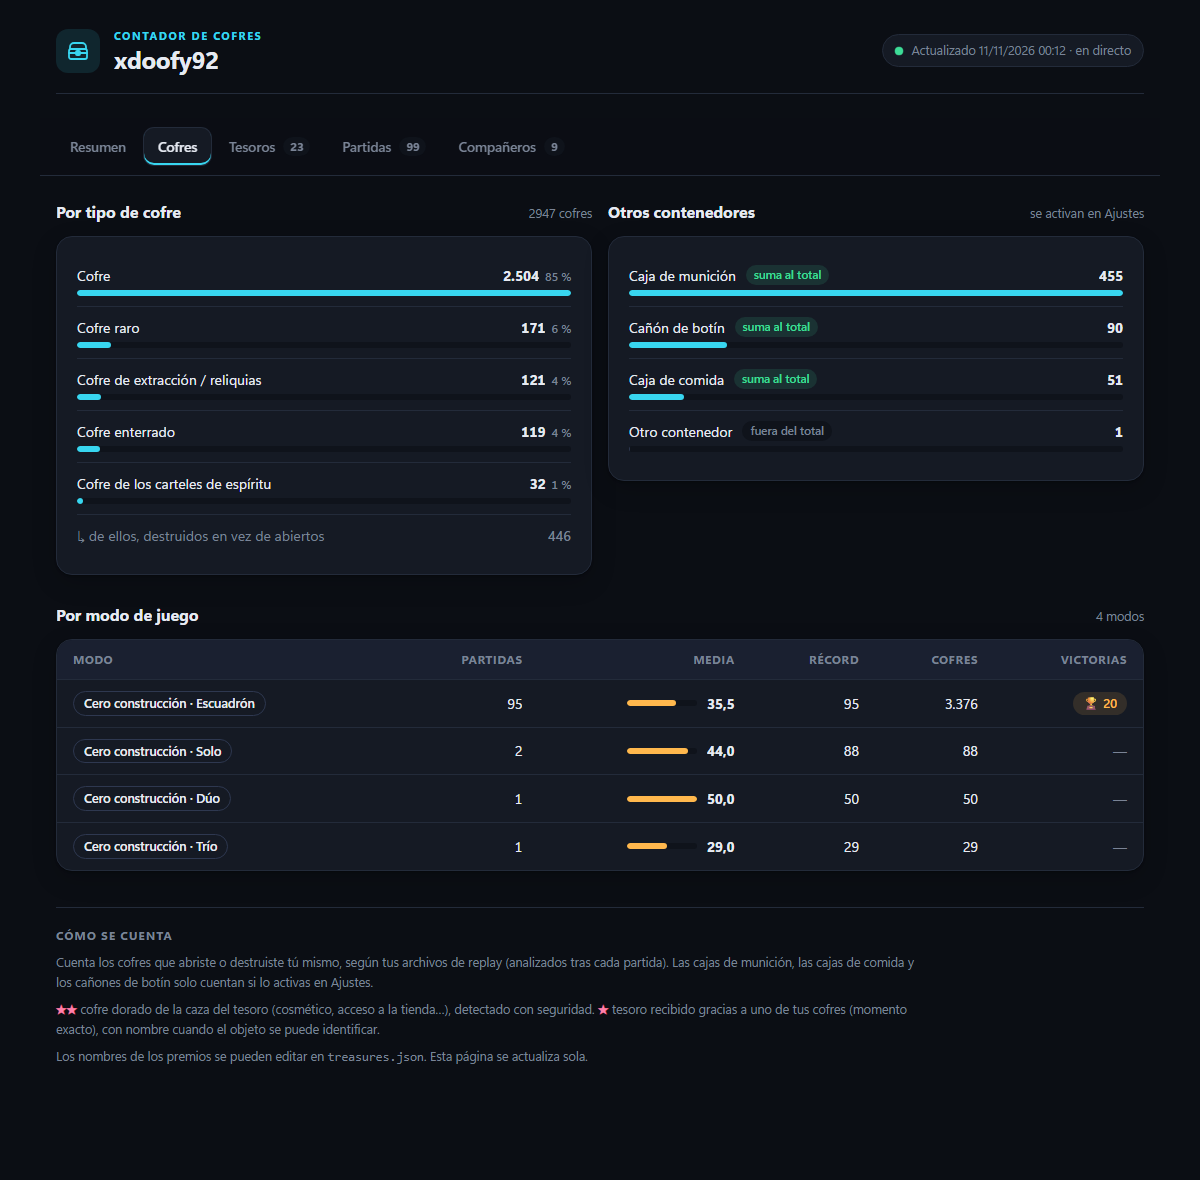
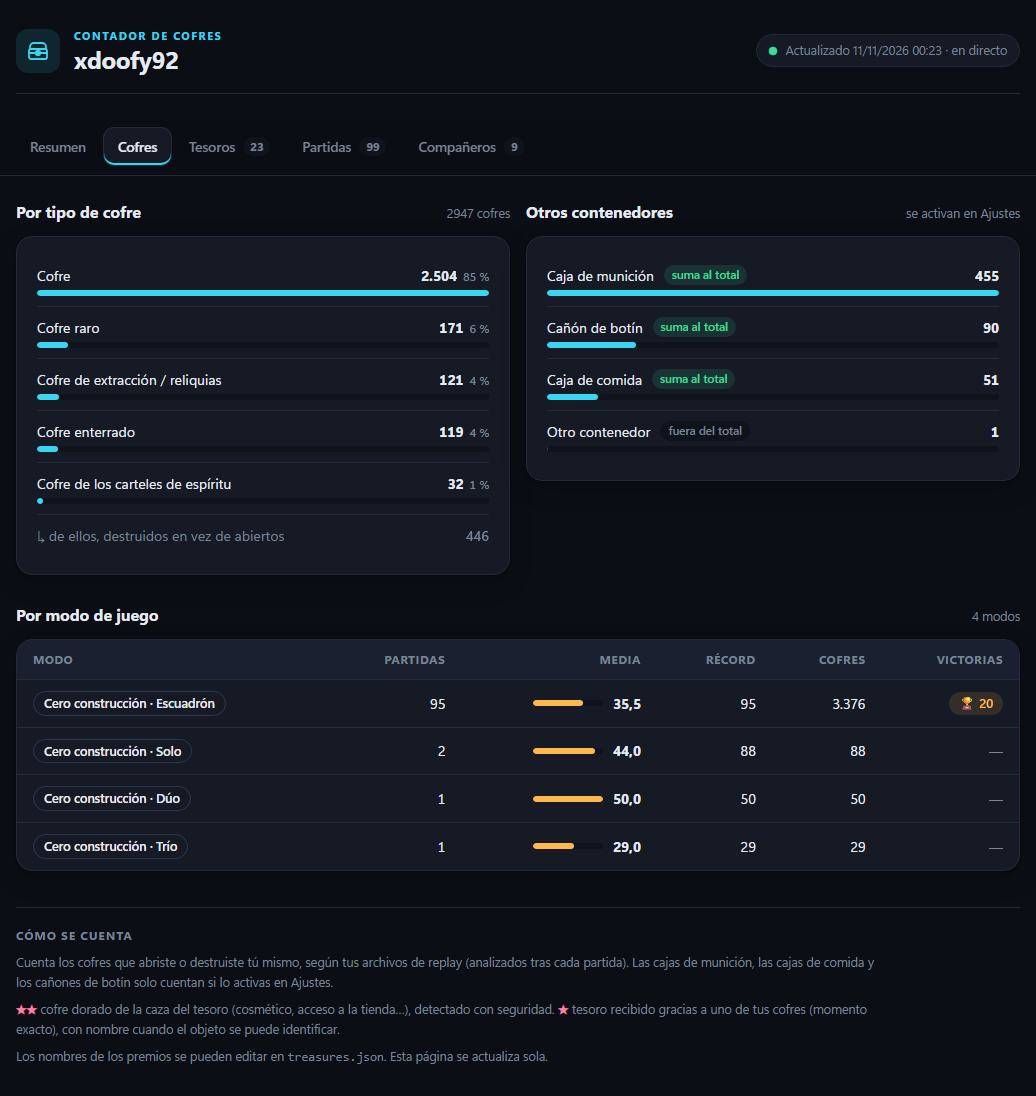
Capturas nuevas del README; iconos redondos en los diálogos
- README: capturas de la versión actual. La ventana y el informe de la
  cabecera tienen el mismo tamaño (1036×728), la ventana muestra el
  equipo, y los dos overlays (entre partidas y en directo) también miden
  igual, sin esquinas blancas. Ajustes, bienvenida y pestañas del informe
  rehechos (nombres ficticios).
- Diálogos: los iconos («i», «!», «↺») vuelven a ser redondos; en Ajustes
  la etiqueta del overlay para OBS es una píldora.
- --overlay-preview: las vistas salen del mismo ancho (como el overlay
  real, que no encoge) y CHESTCOUNTER_OVERLAY_SCALE permite capturarlas a
  más escala.

diff --git a/src/ChestCounter/SettingsForm.cs b/src/ChestCounter/SettingsForm.cs
@@ -199,7 +199,8 @@ public sealed class SettingsForm : Form
         var obsUrl = ObsServer.Url;
         var stateCard = new Card { Location = new Point(RightW - 13 - 70, 6), Size = new Size(70, 18), Radius = 9, BackColor = Theme.Panel };
         Lbl(stateCard, obsUrl != null ? L.T("● ACTIVO", "● ON") : L.T("● NO", "● OFF"), 7.0f, FontStyle.Bold,
-            obsUrl != null ? Theme.Mint : Theme.Red, new Point(0, 0), new Size(70, 18), ContentAlignment.MiddleCenter);
+            obsUrl != null ? Theme.Mint : Theme.Red, new Point(0, 0), new Size(70, 18), ContentAlignment.MiddleCenter)
+            .BackColor = Color.Transparent; // la píldora redondeada se ve por detrás
         obsCard.Controls.Add(stateCard);
         var obs = AddField(obsCard, new Point(13, 41), RightW - 26 - 72, obsUrl ?? L.T("Puerto ocupado", "Port in use"));
         var copy = new PillButton { Text = L.T("Copiar", "Copy"), Location = new Point(RightW - 13 - 66, 41), Size = new Size(66, 30), Radius = 10, Font = Theme.Text(8.5f, FontStyle.Bold), Enabled = obsUrl != null };

diff --git a/src/ChestCounter/Program.cs b/src/ChestCounter/Program.cs
@@ -153,7 +153,8 @@ internal static class Program
             }
             NativeOverlay.Start(-20000, -20000, false, (_, _) => { }, _ => { });
             var fakeLive = new MatchRecord { ChestsOpened = 12, TreasureFinds = { new TreasureFind { Item = "Treasure" } } };
-            foreach (var (suffix, live, inProgress) in new[] { ("-espera", (MatchRecord?)null, false), ("-en-curso", null, true), ("-en-vivo", fakeLive, true) })
+            // "En vivo" primero: el overlay no encoge (ancho estable), así las tres vistas salen del mismo tamaño, como en el juego.
+            foreach (var (suffix, live, inProgress) in new[] { ("-en-vivo", fakeLive, true), ("-en-curso", (MatchRecord?)null, true), ("-espera", null, false) })
             {
                 NativeOverlay.Update(OverlayModel.Build(previewData, live, inProgress, Profiles.InitialChests(config, previewData.Matches.Select(Profiles.Key).FirstOrDefault())));
                 Thread.Sleep(600);

diff --git a/src/ChestCounter/InfoDialog.cs b/src/ChestCounter/InfoDialog.cs
@@ -38,7 +38,7 @@ public sealed class InfoDialog : Form
             Text = "i",
             Font = new Font("Georgia", 15f, FontStyle.Bold | FontStyle.Italic),
             ForeColor = Theme.Cyan,
-            BackColor = Theme.Panel,
+            BackColor = Color.Transparent, // deja ver el círculo de la tarjeta
             Location = new Point(0, 0),
             Size = new Size(40, 40),
             TextAlign = ContentAlignment.MiddleCenter,
@@ -62,7 +62,7 @@ public sealed class InfoDialog : Form
                 Text = p.Glyph,
                 Font = Theme.Text(10f, FontStyle.Bold),
                 ForeColor = p.Color,
-                BackColor = Theme.Panel,
+                BackColor = Color.Transparent,
                 Location = new Point(0, 0),
                 Size = new Size(26, 26),
                 TextAlign = ContentAlignment.MiddleCenter,

diff --git a/src/ChestCounter/NativeOverlay.cs b/src/ChestCounter/NativeOverlay.cs
@@ -175,6 +175,12 @@ public static class NativeOverlay
         var screenDc = GetDC(IntPtr.Zero);
         _scale = GetDeviceCaps(screenDc, LOGPIXELSY) / 96f;
         ReleaseDC(IntPtr.Zero, screenDc);
+        // Desarrollo (capturas del README con --overlay-preview): CHESTCOUNTER_OVERLAY_SCALE fuerza la escala.
+        if (float.TryParse(Environment.GetEnvironmentVariable("CHESTCOUNTER_OVERLAY_SCALE"), System.Globalization.NumberStyles.Float,
+                System.Globalization.CultureInfo.InvariantCulture, out var forced) && forced is > 0.5f and < 5f)
+        {
+            _scale = forced;
+        }
 
         int S(int v) => (int)Math.Round(v * _scale);
 

diff --git a/README.md b/README.md
@@ -34,7 +34,7 @@ ChestCounter lee las repeticiones (replays) que Fortnite guarda de cada partida 
    > Windows puede mostrar *"Windows protegió tu PC"* porque el exe no está firmado. Haz clic en *Más información → Ejecutar de todas formas*.
 4. La bienvenida te recuerda lo de las repeticiones y, si ya tienes replays en el PC, te deja **contarlos** o empezar **solo con las próximas partidas**.
 
-<p align="center"><img src="docs/setup.png" alt="Bienvenida del primer inicio" width="440"></p>
+<p align="center"><img src="docs/setup.png" alt="Bienvenida del primer inicio" width="520"></p>
 
 5. Deja la ventana abierta (puedes minimizarla) mientras juegas. Durante la partida el contador lee el replay que se está grabando y suma los cofres **en directo**; al terminar, se confirman.
 
@@ -43,7 +43,7 @@ ChestCounter lee las repeticiones (replays) que Fortnite guarda de cada partida 
 
 ## La ventana principal
 
-<p align="center"><img src="docs/main.png" alt="Ventana principal" width="592"></p>
+<p align="center"><img src="docs/main.png" alt="Ventana principal" width="680"></p>
 
 - **Arriba a la izquierda**: tu total de cofres, la última partida (o la actual, en verde, mientras juegas) y la sesión.
 - **A la derecha**: hoy, el mejor día, la media, la mejor partida, el histórico (partidas guardadas y desde cuándo) y los tesoros.
@@ -92,7 +92,7 @@ Con **Sumar sus cofres a tu total** (también desactivado), tu total, media, ré
 
 ## El overlay
 
-<p align="center"><img src="docs/overlay-espera.png" alt="Overlay entre dos partidas" width="300">&nbsp;&nbsp;<img src="docs/overlay-en-curso.png" alt="Overlay durante una partida" width="300"></p>
+<p align="center"><img src="docs/overlay-espera.png" alt="Overlay entre dos partidas" width="300">&nbsp;&nbsp;<img src="docs/overlay-en-vivo.png" alt="Overlay en directo durante una partida" width="300"></p>
 
 - **Cifras grandes**: tu **total** de cofres y, en el recuadro, la partida **anterior** (o la **actual**, en directo, mientras juegas).
 - **Sesión**, **media** de la sesión, **anterior** (durante una partida) y **tesoros**.
@@ -111,7 +111,7 @@ Para verlo sobre el juego, pon Fortnite en **Pantalla completa en ventana** (*Aj
 
 ## Ajustes
 
-<p align="center"><img src="docs/settings.png" alt="Ajustes" width="592"></p>
+<p align="center"><img src="docs/settings.png" alt="Ajustes" width="620"></p>
 
 - **Idioma**: por defecto el de Windows; arriba puedes elegir otro (español, inglés, portugués, ruso, francés, alemán, italiano, polaco, turco o japonés).
 - **Abrir con Fortnite**: un pequeño proceso invisible abre el contador (minimizado) cuando arranca Fortnite y lo cierra 30 s después de cerrarlo. No lee nada del juego: solo mira la lista de programas en marcha.

diff --git a/README.en.md b/README.en.md
@@ -34,7 +34,7 @@ ChestCounter reads the replays Fortnite saves of every match and keeps count of 
    > Windows may show *"Windows protected your PC"* because the exe is not signed. Click *More info → Run anyway*.
 4. The welcome screen reminds you about replays and, if there are already replays on your PC, lets you **count them** or start with **your next matches only**.
 
-<p align="center"><img src="docs/setup.png" alt="First-run welcome" width="440"></p>
+<p align="center"><img src="docs/setup.png" alt="First-run welcome" width="520"></p>
 
 5. Leave the window open (you can minimize it) while you play. During the match the counter reads the replay being recorded and adds the chests **live**; when the match ends they are confirmed.
 
@@ -43,7 +43,7 @@ ChestCounter reads the replays Fortnite saves of every match and keeps count of 
 
 ## The main window
 
-<p align="center"><img src="docs/main.png" alt="Main window" width="592"></p>
+<p align="center"><img src="docs/main.png" alt="Main window" width="680"></p>
 
 - **Top left**: your chest total, the last match (or the current one, in green, while you play) and the session.
 - **Right**: today, best day, average, best match, history (saved matches and since when) and treasures.
@@ -92,7 +92,7 @@ With **Add their chests to your total** (also off), your total, average, records
 
 ## The overlay
 
-<p align="center"><img src="docs/overlay-espera.png" alt="Overlay between two matches" width="300">&nbsp;&nbsp;<img src="docs/overlay-en-curso.png" alt="Overlay during a match" width="300"></p>
+<p align="center"><img src="docs/overlay-espera.png" alt="Overlay between two matches" width="300">&nbsp;&nbsp;<img src="docs/overlay-en-vivo.png" alt="Overlay live during a match" width="300"></p>
 
 - **Big numbers**: your chest **total** and, in the box, the **previous** match (or the **current** one, live, while you play).
 - **Session**, session **average**, **previous** (during a match) and **treasures**.
@@ -111,7 +111,7 @@ Streaming? While the counter is open, the same overlay is at **http://localhost:
 
 ## Settings
 
-<p align="center"><img src="docs/settings.png" alt="Settings" width="592"></p>
+<p align="center"><img src="docs/settings.png" alt="Settings" width="620"></p>
 
 - **Language**: the Windows language by default; at the top you can pick another (Spanish, English, Portuguese, Russian, French, German, Italian, Polish, Turkish or Japanese).
 - **Open with Fortnite**: a small invisible process opens the counter (minimized) when Fortnite starts and closes it 30 s after Fortnite closes. It reads nothing from the game: it only looks at the list of running programs.
